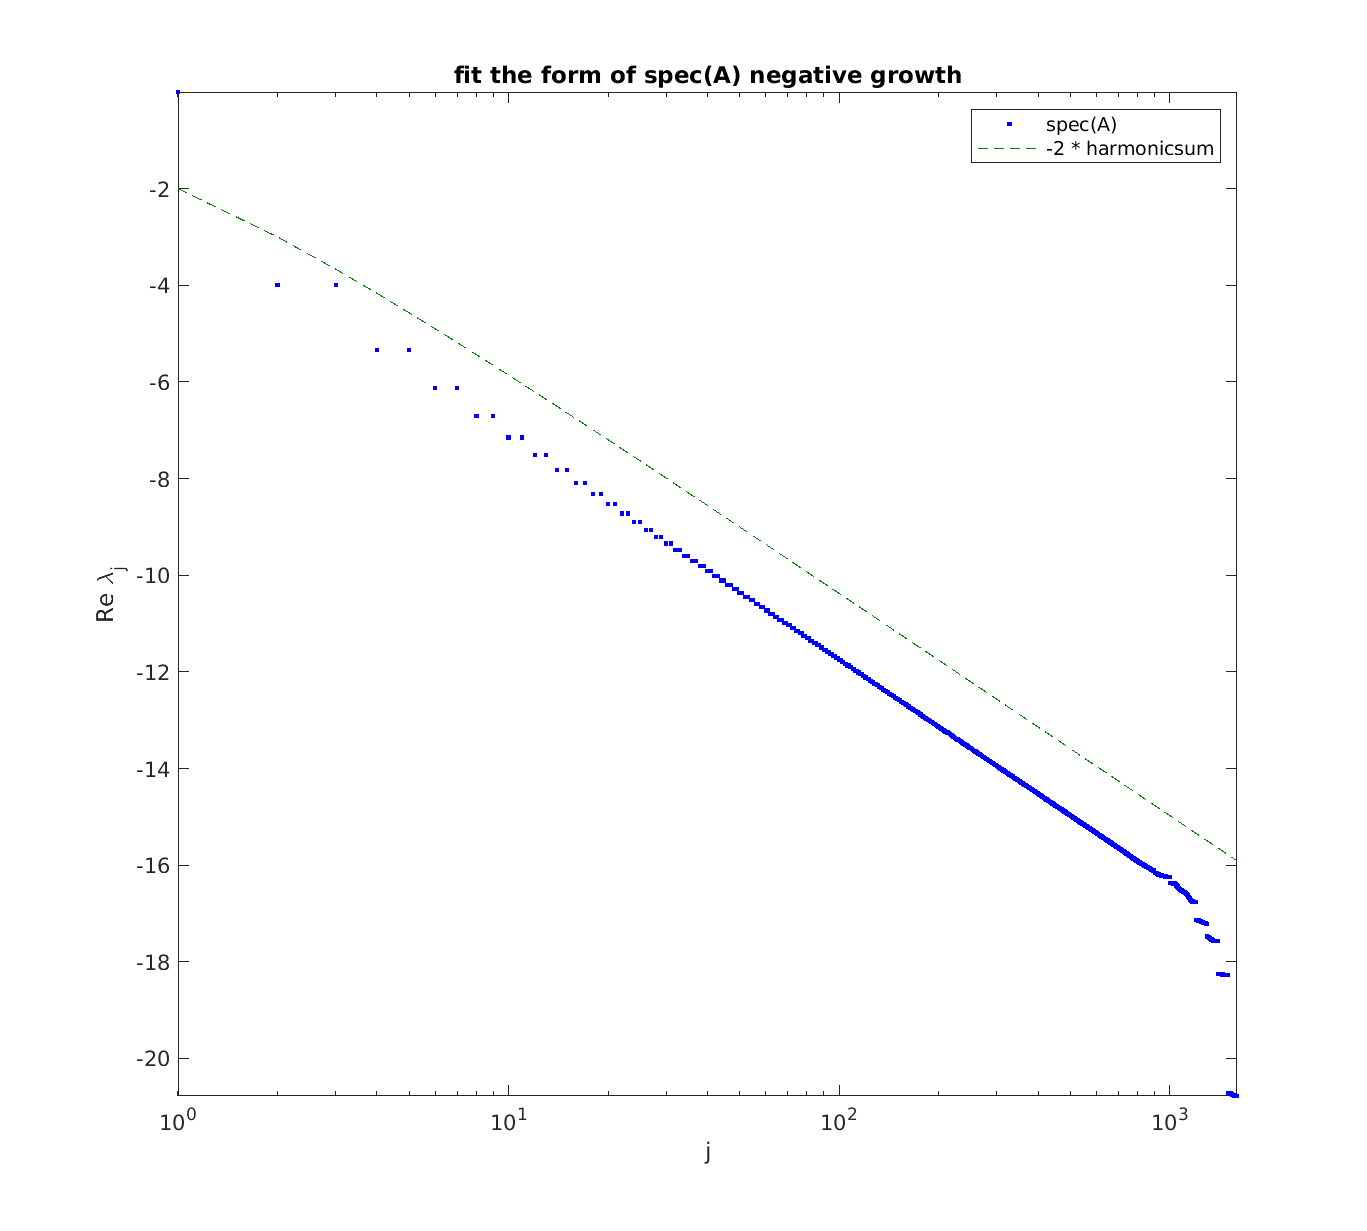
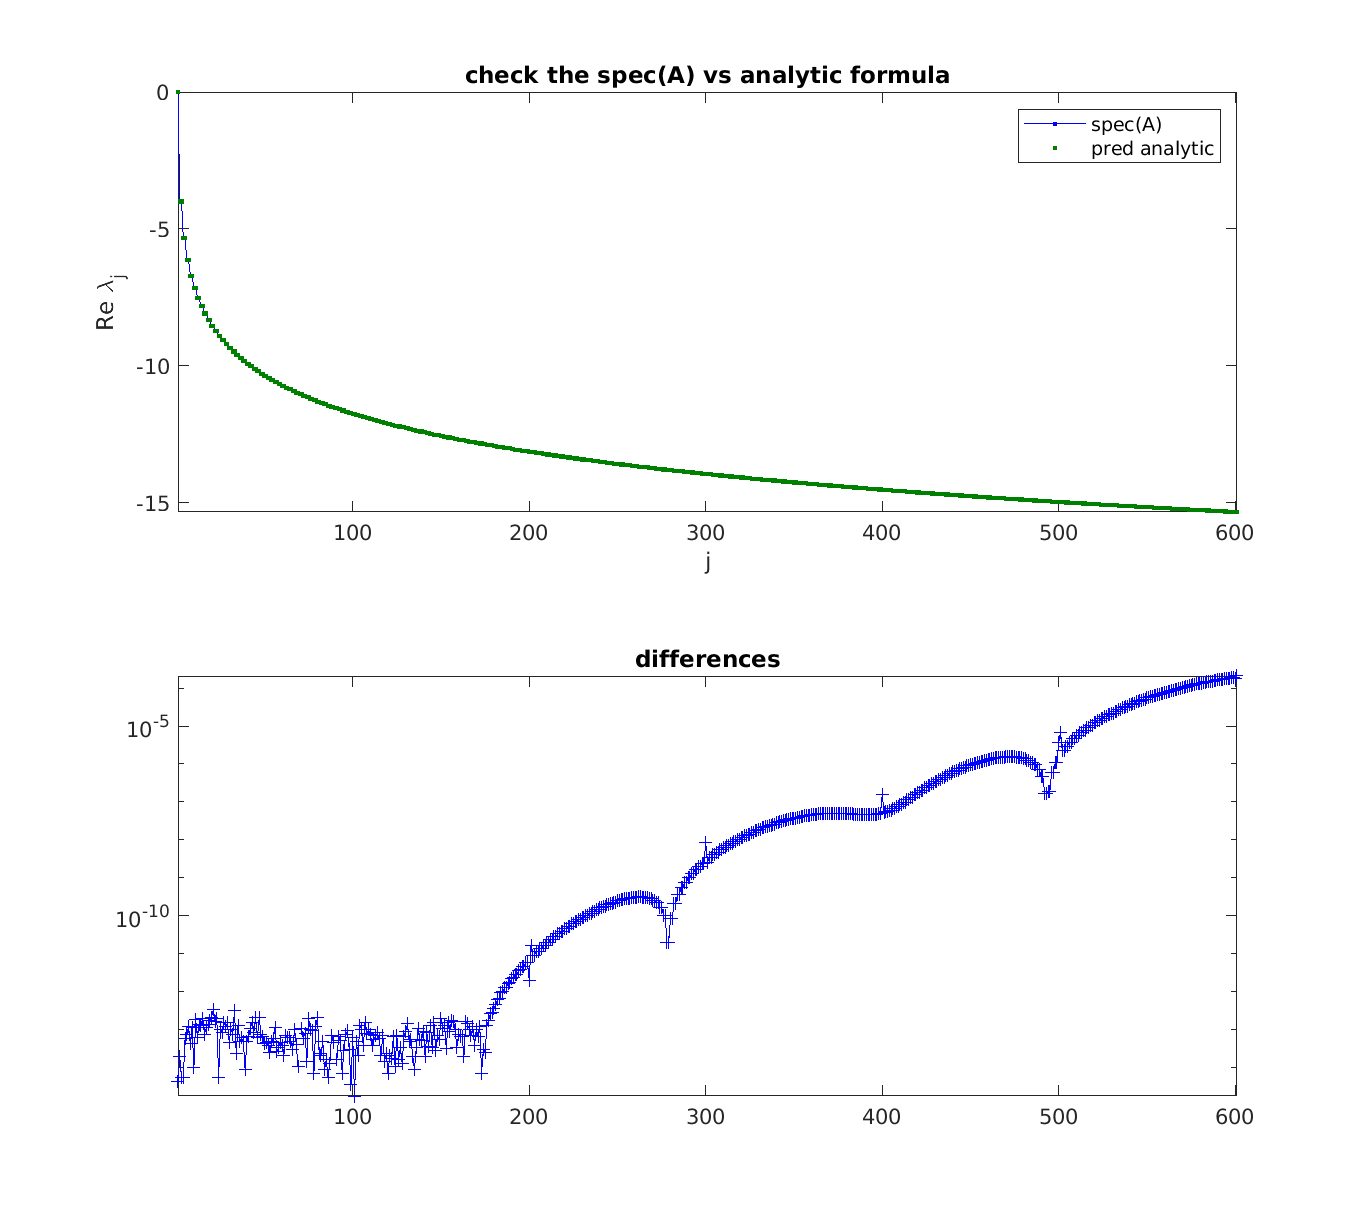
exact analytic formula for spec(A) toy

diff --git a/SBT/test_spec_toy.m b/SBT/test_spec_toy.m
@@ -30,9 +30,15 @@ Nt=numel(lam{end})/4; semilogy(1:Nt, abs(lam{end}(1:Nt)-lam{end-1}(1:Nt)),'+');
 xlabel('j'); ylabel('est error in \lambda_j');
 print -dpng figs/spec_toy_conv.png
 
-figure(2); clf; semilogx(1:N, lam{i}, '.'); hold on; axis tight;
-xlabel('j'); ylabel('Re \lambda_j'); 
-plot(1:N,-2*cumsum(1./(1:N)),'--');    % harmonic sum, guessed prefactor 2
-legend('spec(A)', '-2 * harmonicsum');
-title('fit the form of spec(A) negative growth');
+figure(2); clf;
+nmax = 300;             % max Fourier mode to predict spectrum to
+lampred = [0 kron(-4*cumsum(1./(1:2:2*nmax-1)), [1 1])];   % a zero then pairs of odd-harmonic sum eigvals
+subplot(2,1,1); plot(1:(2*nmax+1),lampred,'.-');
+hold on; semilogx(1:N, lam{end}, '.');
+axis tight; xlabel('j'); ylabel('Re \lambda_j'); set(gca,'xlim',[1 2*nmax+1]);
+legend('spec(A)', 'pred analytic');
+title('check the spec(A) vs analytic formula');
+subplot(2,1,2);
+semilogy(1:(2*nmax+1), abs(lampred(:)-lam{end}(1:(2*nmax+1))),'+-');
+title('differences'); axis tight;
 print -dpng figs/spec_toy_form.png
